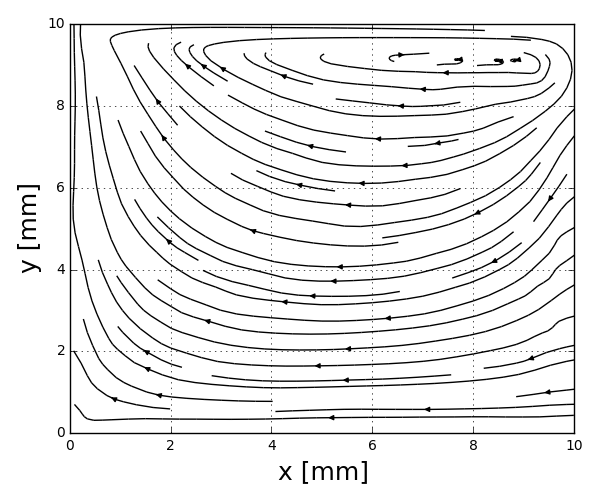
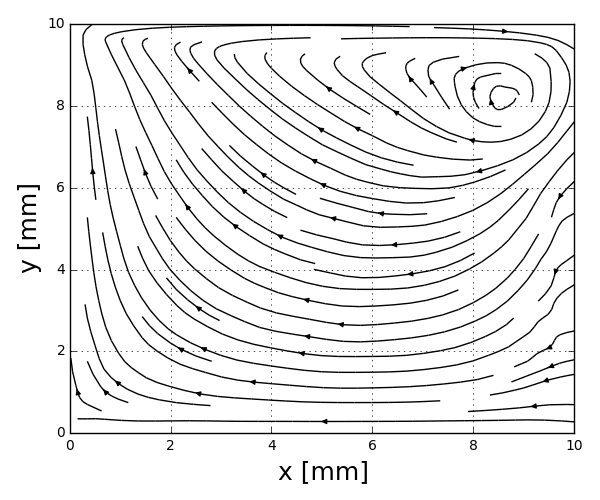
updated on steady solution

Changed region(s): [[0.12, 0.03, 0.96, 0.87]]

diff --git a/src/functions/timeIntegrate.py b/src/functions/timeIntegrate.py
@@ -10,6 +10,7 @@ def timeIntegrate(inputDict):
    jmax    = int(inputDict['jDim'])
    maxIter = int(inputDict['maxIter'])
    beta    = float(inputDict['Beta'])
+   residualMin = float(inputDict['residualMin'])
 
    # initialize residual variables for p, u, and v
    residualInit = np.zeros(3)
@@ -58,7 +59,7 @@ def timeIntegrate(inputDict):
       MachX, MachY = computeMaximumMach(imax, jmax, beta)
       print "|- nIter = %s" % nIter, ", dt = %.4f" % dt, ", Maximum Mach_x = %.4f" % MachX, ", Maximum Mach_y = %.4f" % MachY, ", u-residual = %.4f" % resNorm
 
-      if (nIter >= maxIter): break
+      if (nIter >= maxIter or resNorm <= residualMin): break
 
    # Dimensionalize flow and domain variables
    dimensionalize(inputDict, 1, 1)
